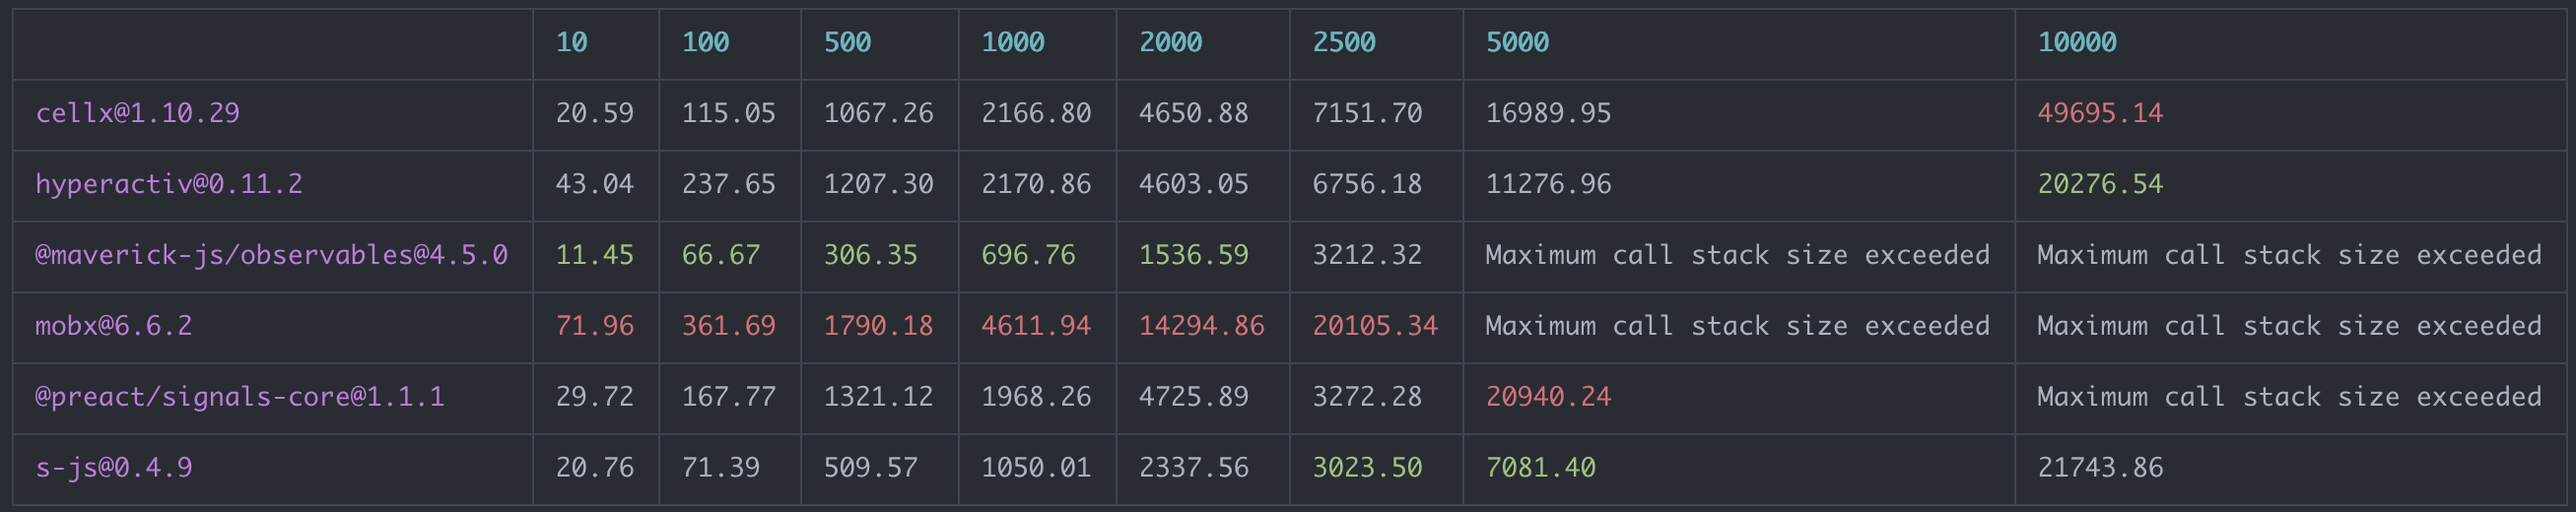
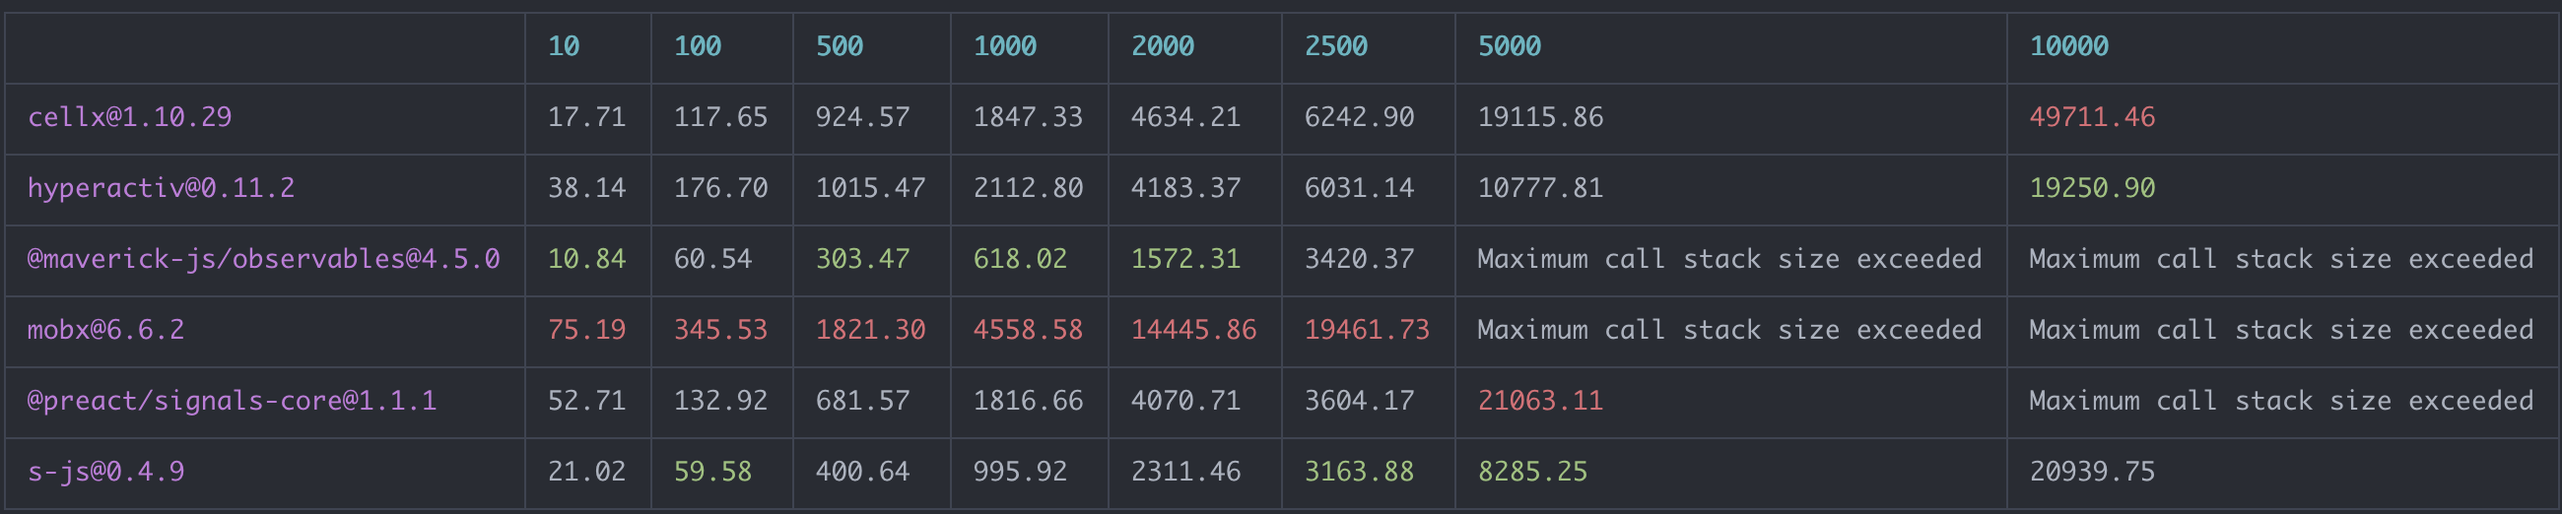
bench: force garbage collection between runs

diff --git a/README.md b/README.md
@@ -174,7 +174,7 @@ dispose(calculateSum)
 
 This repository includes a [benchmark folder](https://github.com/elbywan/hyperactiv/tree/master/bench) which pits `hyperactiv` against other similar libraries.
 
-While not the best in terms of raw performance it is still reasonably fast and I encourage you to have a look at the different implementations to compare the library APIs. [For instance there is no `.get()` and `.set()` wrappers when using `hyperactiv`](https://github.com/elbywan/hyperactiv/blob/master/bench/layers.mjs#L343).
+While not the best in terms of raw performance it is still reasonably fast and I encourage you to have a look at the different implementations to compare the library APIs. [For instance there is no `.get()` and `.set()` wrappers when using `hyperactiv`](https://github.com/elbywan/hyperactiv/blob/master/bench/layers.mjs#L361).
 
 **Here are the raw results: _(100 runs per tiers, average time ignoring the 10 best & 10 worst runs)_**
 
